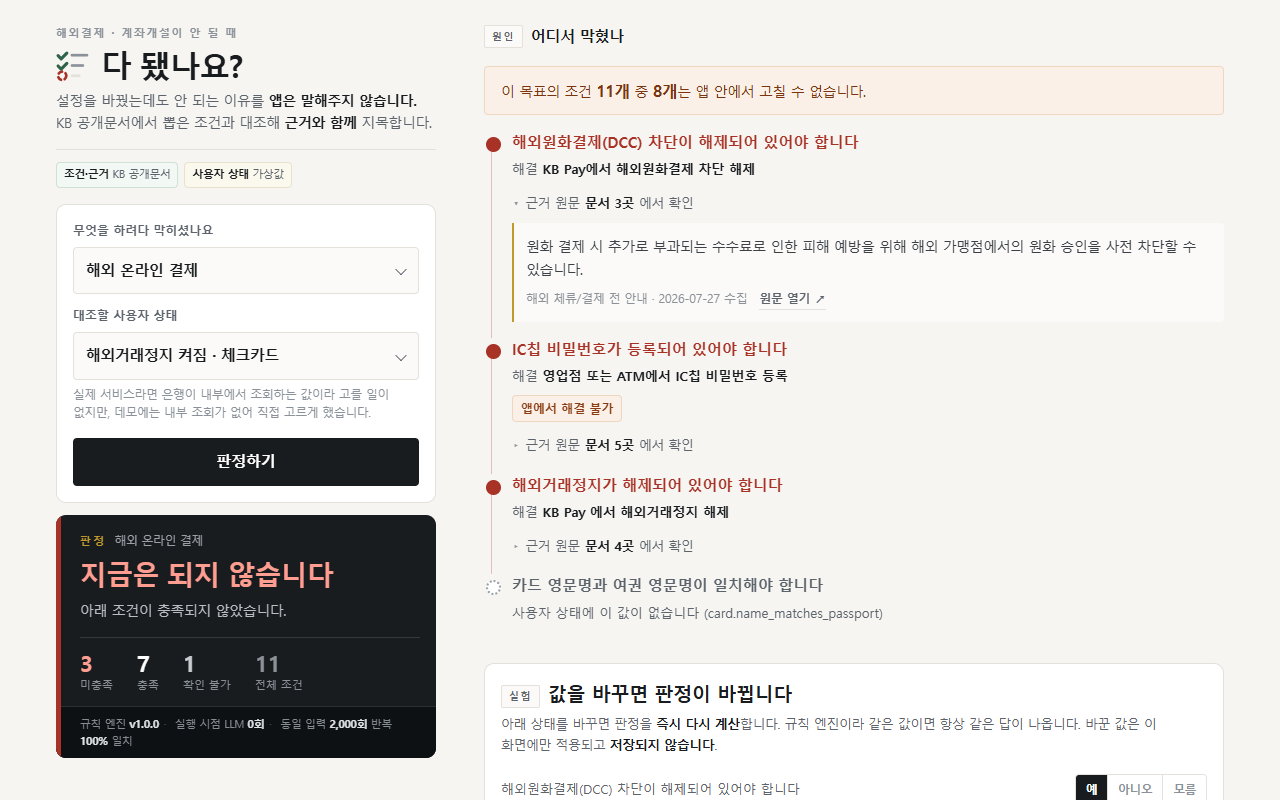
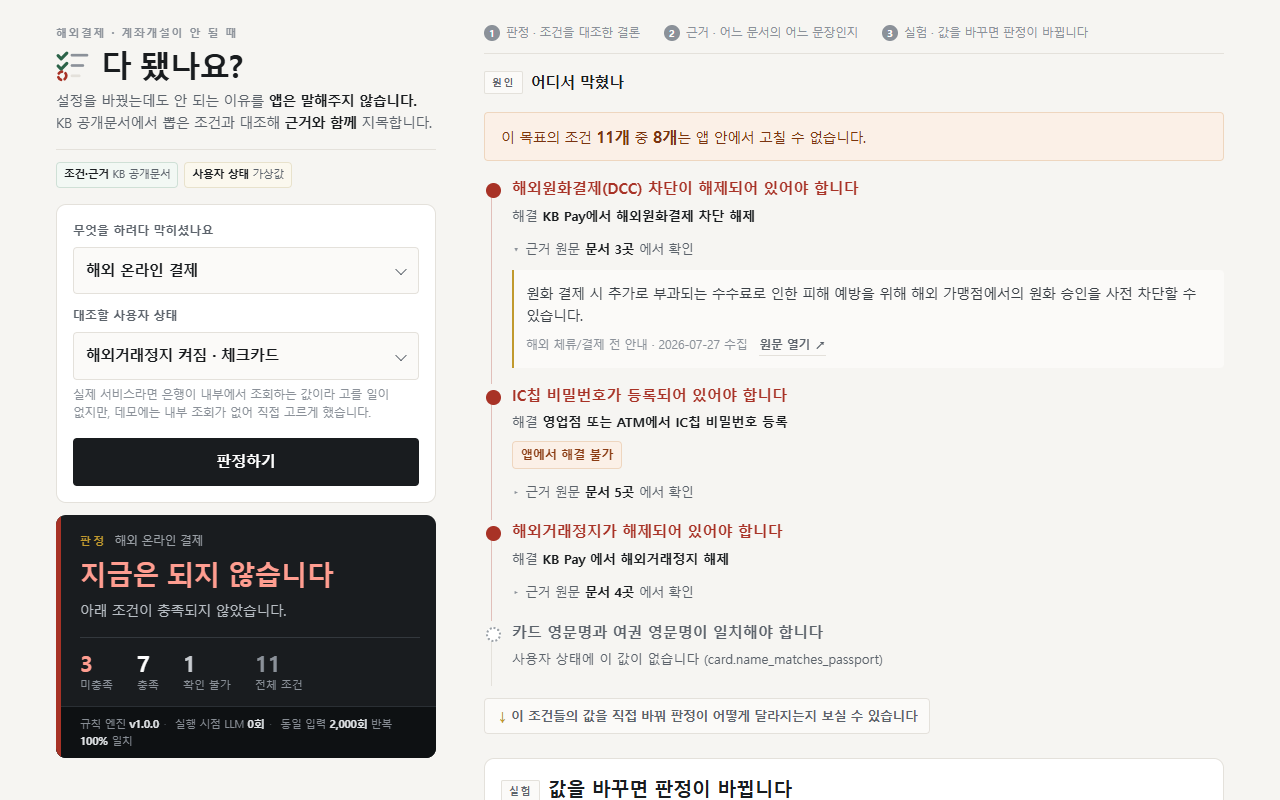
feat(web): 보는 순서 안내 — 오버레이 대신 화면 안에 심는다
처음 온 사람이 무엇을 보면 되는지 알려준다. 오버레이 투어는 쓰지 않았다.
심사가 30초인데 닫기 클릭을 요구하면 그 자체가 첫인상이 된다.

- 오른쪽 머리에 한 줄 안내: 판정 · 근거 · 실험.
  위치("왼쪽")로 쓰지 않는다 — 좁은 화면에서는 한 컬럼으로 접혀 왼쪽이 없어진다.
  대신 무엇인지를 말하며, 각 절의 머리말(원인·실험·근거)과 같은 말을 쓴다
- '어디서 막혔나' 끝에 실험 절로 데려가는 안내. 우리 최고의 증거가 스크롤
  아래에 있으므로 원인을 본 직후에 존재를 알린다
- 데려간 뒤 잠깐 테두리로 표시한다. 어디로 왔는지 모르면 안내가 아니다
- 주소(hash)를 바꾸지 않는다. 심사위원에게 불필요한 뒤로가기를 만들지 않는다
- prefers-reduced-motion 을 존중한다

검증 (실측)
  1280x800  안내 한 줄(30px) · 유도 클릭 시 스크롤 0 → 579 · 실험 절 화면 안
  1280x720  검인이 여전히 첫 화면 안(여유 29px) · 좌측 열 스크롤 없음
  360x800   판정이 첫 화면 안(780px) · 가로 스크롤 0 · 유도 정상 동작
  콘솔 0 · pytest 14 passed

diff --git a/web/app.js b/web/app.js
@@ -252,11 +252,15 @@ function railSection(v, tree){
     if(text) impact = `<p class="impact">${text}</p>`;
   }
 
+  // 우리 최고의 증거(직접 바꿔 보기)가 스크롤 아래에 있다. 여기서 존재를 알린다.
+  const jump = `<p class="to-tweak-wrap"><a class="to-tweak" href="#tweak">이 조건들의
+    값을 직접 바꿔 판정이 어떻게 달라지는지 보실 수 있습니다</a></p>`;
+
   // 근거는 접어두면 없는 것과 같다. 첫 건은 펼쳐 둔다 —
   // 클릭하지 않는 사람에게도 "출처 있는 판정"이 즉시 보여야 한다.
   const stops = v.unmet.map((r, i) => node(r, "stop", i === 0)).join("");
   return `<section class="rail"><h3><span class="eyebrow">원인</span>어디서 막혔나</h3>
-    ${impact}${stops}${v.unknown.map(r => node(r, "hold")).join("")}</section>`;
+    ${impact}${stops}${v.unknown.map(r => node(r, "hold")).join("")}${jump}</section>`;
 }
 
 // ── 직접 바꿔 보기 ─────────────────────────────────────────────
@@ -310,7 +314,7 @@ function tweakSection(tree, prof, v){
   const reset = n
     ? `<button class="reset" type="button" id="reset">직접 바꾼 값 ${n}개 되돌리기</button>` : "";
 
-  return `<section class="tweak">
+  return `<section class="tweak" id="tweak">
     <h3><span class="eyebrow">실험</span>값을 바꾸면 판정이 바뀝니다</h3>
     <p class="lede">아래 상태를 바꾸면 판정을 <b>즉시 다시 계산</b>합니다.
       규칙 엔진이라 같은 값이면 항상 같은 답이 나옵니다.
@@ -418,6 +422,19 @@ async function judge(){
 
     // 값 바꾸기 — 다시 그려지는 영역이라 위임으로 받는다
     $("#out").addEventListener("click", e => {
+      // 안내를 눌렀을 때. 주소를 바꾸지 않고(뒤로가기를 만들지 않고) 데려간다
+      const jump = e.target.closest(".to-tweak");
+      if(jump){
+        e.preventDefault();
+        const el = $(".tweak");
+        if(!el) return;
+        const smooth = !window.matchMedia("(prefers-reduced-motion: reduce)").matches;
+        el.scrollIntoView({behavior: smooth ? "smooth" : "auto", block: "center"});
+        el.classList.add("flash");
+        setTimeout(() => el.classList.remove("flash"), 1400);
+        return;
+      }
+
       const seg = e.target.closest("button.seg");
       if(seg){
         const raw = seg.dataset.value;

diff --git a/web/style.css b/web/style.css
@@ -169,6 +169,46 @@ button[disabled]{opacity:.45; cursor:default}
 /* ── 판정 레일 : 이 화면의 서명 ──
    조건이 세로선으로 이어지다가 막힌 지점에서 끊긴다.
    확인 불가 항목은 색을 주지 않고 점선으로 — 판단을 유보했음을 시각적 공백으로 표현. */
+/* ── 보는 순서 안내 ──
+   오버레이로 덮지 않는다. 심사는 30초인데 닫기 클릭을 요구하면 그게 첫인상이 된다.
+   자리를 조금 쓰고 아무것도 가리지 않는 쪽을 택했다. */
+.guide{
+  display:flex; flex-wrap:wrap; gap:var(--s2) var(--s5);
+  margin-bottom:var(--s4); padding-bottom:var(--s3);
+  border-bottom:1px solid var(--rule);
+}
+.guide span{
+  display:inline-flex; align-items:center; gap:6px;
+  font-size:11.5px; color:var(--ink-3); line-height:1.5;
+}
+.guide b{
+  display:inline-flex; align-items:center; justify-content:center;
+  width:16px; height:16px; flex:none;
+  font-size:10px; font-weight:800; color:var(--surface); background:var(--ink-3);
+  border-radius:50%;
+}
+
+/* 직접 바꿔 보기로 데려가는 안내.
+   우리 최고의 증거가 스크롤 아래에 있으므로 원인 바로 다음에서 존재를 알린다. */
+.to-tweak-wrap{margin-top:var(--s3)}
+.to-tweak{
+  display:inline-block; position:relative;
+  padding:7px var(--s3) 7px 26px;
+  font-size:12.5px; font-weight:600; color:var(--ink-2); text-decoration:none;
+  background:var(--surface-2); border:1px solid var(--rule); border-radius:var(--r-sm);
+}
+.to-tweak::before{
+  content:"↓"; position:absolute; left:11px; color:var(--mark); font-weight:800;
+}
+.to-tweak:hover{background:var(--surface); color:var(--ink); border-color:var(--ink-3)}
+.to-tweak:focus-visible{outline:2px solid var(--mark); outline-offset:2px}
+
+/* 데려간 뒤 잠깐 표시한다 — 어디로 왔는지 모르면 안내가 아니다 */
+.tweak.flash{border-color:var(--mark); box-shadow:0 0 0 3px rgba(193,154,46,.16)}
+@media (prefers-reduced-motion:no-preference){
+  .tweak{transition:border-color .3s, box-shadow .3s}
+}
+
 .rail{margin-top:0}
 
 /* 문제 정의를 끝내는 한 줄. 이 프로젝트가 왜 필요한지가 여기서 끝난다.

diff --git a/web/index.html b/web/index.html
@@ -61,7 +61,19 @@
   </aside>
 
   <!-- 오른쪽: 근거. 아무것도 탭 뒤로 숨기지 않는다. -->
-  <main id="out"></main>
+  <main>
+    <!-- 처음 온 사람에게 보는 순서를 알려준다. 오버레이로 화면을 덮지 않는다 —
+         심사는 30초인데 닫기 클릭을 요구하면 그 자체가 첫인상이 된다.
+         번호를 쓴 것은 이것이 실제로 순서이기 때문이다. -->
+    <!-- 위치("왼쪽")로 쓰지 않는다. 좁은 화면에서는 한 줄로 접혀 왼쪽이 없어진다.
+         대신 무엇인지를 말한다 — 각 절의 머리말(원인·실험·근거)과 같은 말이다. -->
+    <nav class="guide">
+      <span><b>1</b> 판정 · 조건을 대조한 결론</span>
+      <span><b>2</b> 근거 · 어느 문서의 어느 문장인지</span>
+      <span><b>3</b> 실험 · 값을 바꾸면 판정이 바뀝니다</span>
+    </nav>
+    <div id="out"></div>
+  </main>
 
 </div>
 
